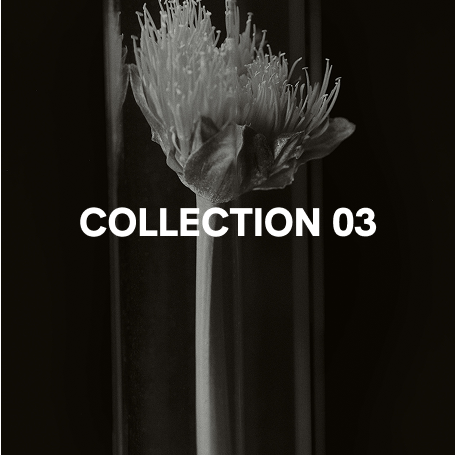
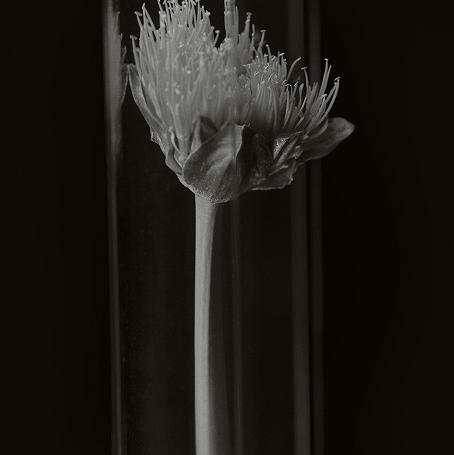
for pc succes

diff --git a/style.css b/style.css
@@ -11,15 +11,19 @@ body {
 
 /* nav bar */
 .navbar {
+    position: fixed;
+    top: 0;
     display: flex;
     justify-content: space-between;
     align-items: center;
     padding: 0 20px;
+    width: 100%;
     height: 45px;
     background: #FFFFFF;
     font-family: Arial;
     font-weight: 400;
     size: 13px;
+    z-index: 1000;
 }
 
 /* nav left */
@@ -278,6 +282,23 @@ body {
     height: 100%;
     top: 0;
     left: 0;
+    z-index: 1;
+}
+
+.image-collection-child-hide {
+    position: absolute;
+    object-fit: cover;
+    width: 100%;
+    height: 100%;
+    top: 0;
+    left: 0;
+    opacity: 0;
+    z-index: 2;
+    transition: opacity 0.3s ease-in-out;
+}
+
+.image-collection-div:hover .image-collection-child-hide {
+    opacity: 1;
 }
 
 .sticky-label-collection {
@@ -303,11 +324,57 @@ body {
 
 
 
+.slider-main {
+    width: 100%;
+    background-color: #000000;
+    color: #ffffff;
+    font-family: arial;
+    padding: 20px 0;
+    overflow: hidden;
+    position: relative;
+}
+
+.slider-track {
+    display: flex;
+    width: max-content;
+    animation: scroll-left 10s linear infinite;
+}
+
+.slider-content {
+    display: flex;
+    align-items: center;
+    gap: 95px;
+    padding-right: 95px;
+}
+
+.slider-content h1 {
+    margin: 0;
+    font-size: 50px;
+    font-weight: bold;
+    white-space: nowrap;
+}
+
+@keyframes scroll-left {
+    0% {
+        transform: translateX(0);
+    }
+
+    100% {
+        transform: translateX(-50%);
+    }
+}
+
+
+
+
+
+
+
 
 
 .content-hero-4-container {
     width: calc(100vw - 20%);
-    padding: 0 10% 10%;
+    padding: 10% 10%;
     font-family: Arial, sans-serif;
     display: flex;
     justify-content: space-between;
@@ -634,7 +701,7 @@ details[open] .icon-arrow {
 
 .footer-container {
     background-color: #F8F9F8;
-    padding: 0 20px 20px;
+    padding: 0 5% 20px;
     margin: 0;
 }
 

diff --git a/index.html b/index.html
@@ -82,16 +82,36 @@
             <div class="image-collection">
                 <div class="image-collection-div">
                     <img class="image-collection-child" src="DTS_THE_LEADER_Joey_Bania_Clips_ID11 11.png" alt="pic">
+                    <img class="image-collection-child-hide" src="DTS_THE_LEADER_Joey_Bania_Clips_ID11 12.png"
+                        alt="pic">
                     <h1 class="sticky-label-collection">COLLECTION 02</h1>
                 </div>
                 <div class="image-collection-div">
-                    <img class="image-collection-child" src="DTS_THE_LEADER_Joey_Bania_Clips_ID11 12.png" alt="pic">
+                    <img class="image-collection-child" src="Component 15.png" alt="pic">
+                    <img class="image-collection-child-hide" src="DTS_THE_LEADER_Joey_Bania_Clips_ID11 12.png"
+                        alt="pic">
                     <h1 class="sticky-label-collection">COLLECTION 03</h1>
                 </div>
             </div>
         </div>
 
-        <div></div>
+        <div class="slider-main">
+            <div class="slider-track">
+                <div class="slider-content">
+                    <img src="right.png" alt="arrow-right">
+                    <h1>NEW ARRIVAL</h1>
+                    <img src="left.png" alt="arrow-left">
+                    <h1>BASE SELLING</h1>
+                </div>
+
+                <div class="slider-content">
+                    <img src="right.png" alt="arrow-right">
+                    <h1>NEW ARRIVAL</h1>
+                    <img src="left.png" alt="arrow-left">
+                    <h1>BASE SELLING</h1>
+                </div>
+            </div>
+        </div>
 
         <div class="content-hero-4-container">
             <div class="group-text">
